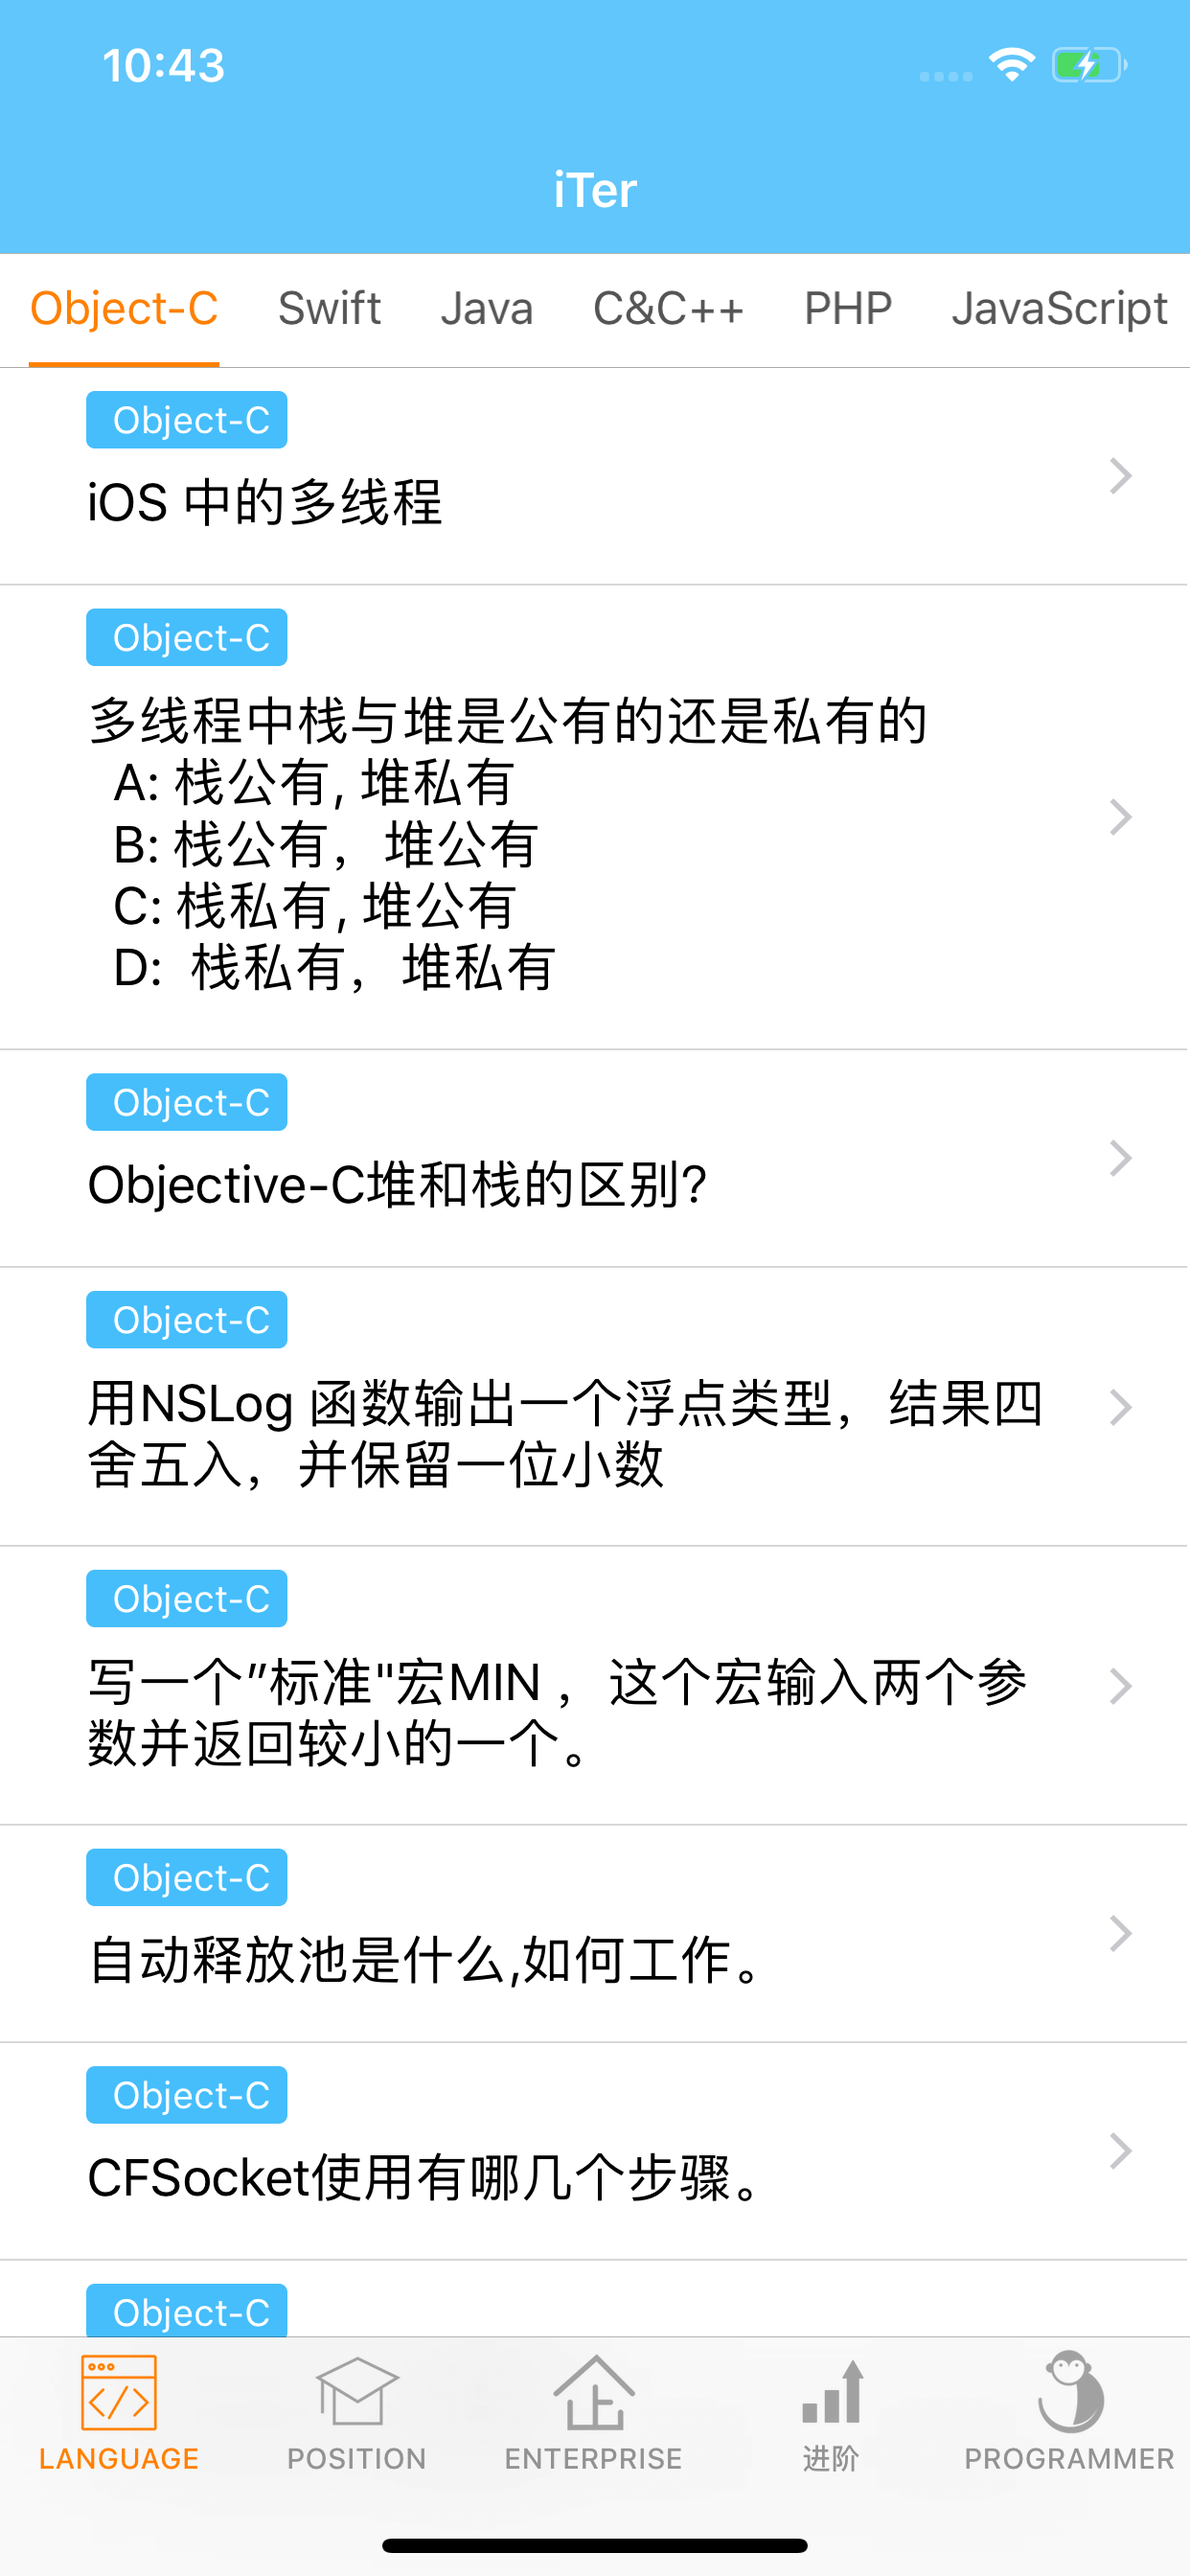
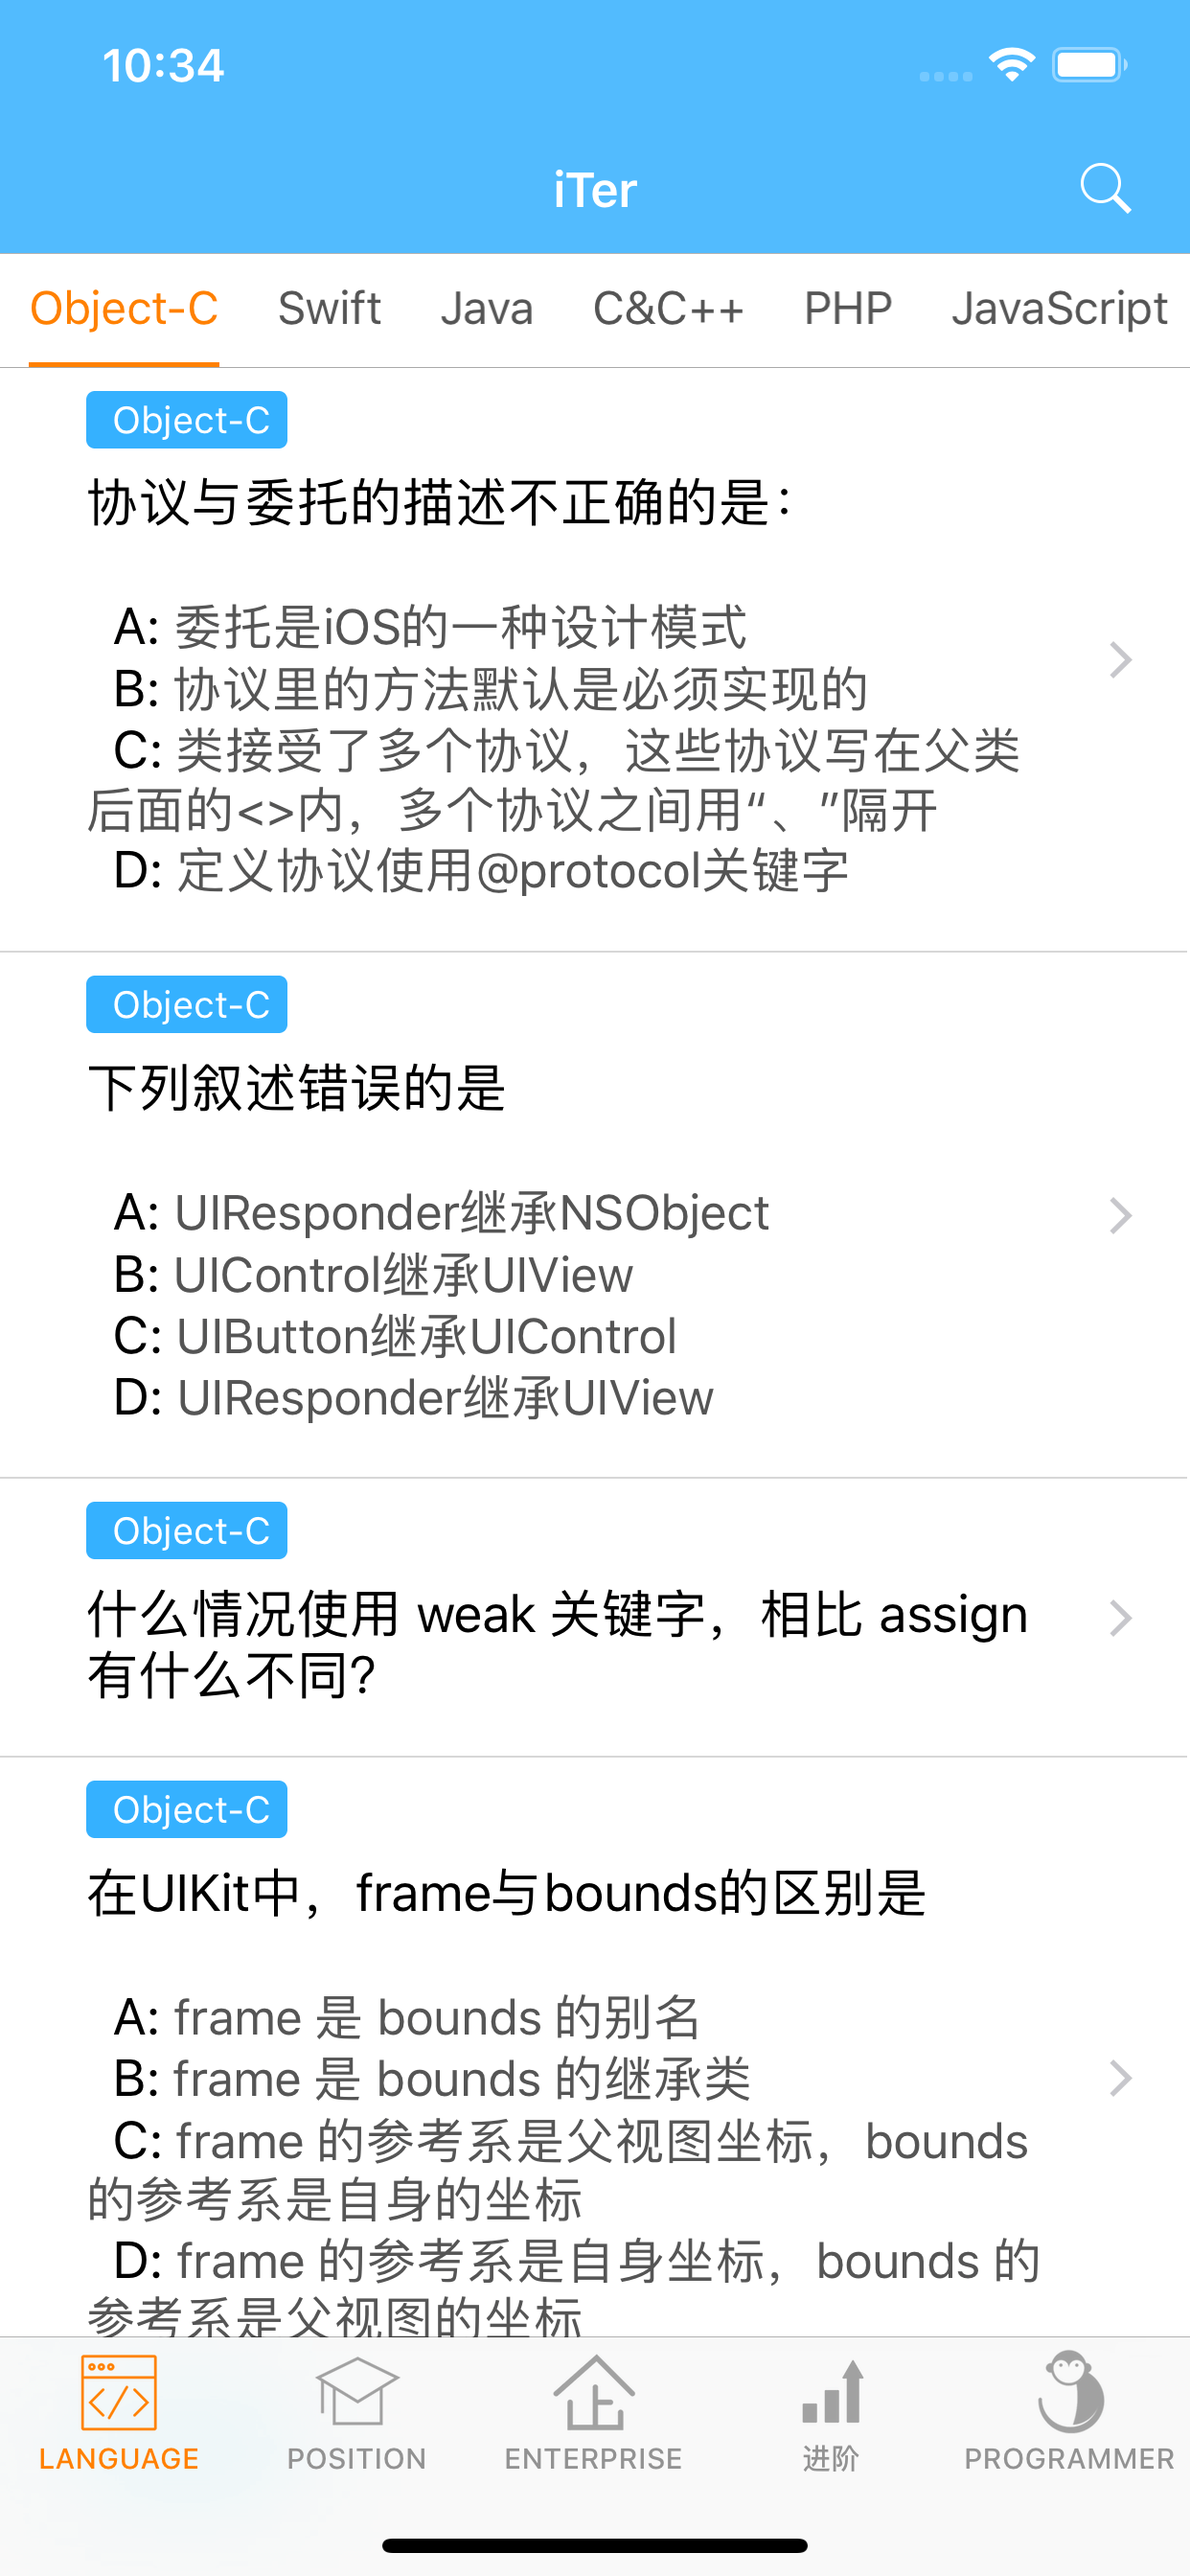
- 每次启动题目随时显示 - 修复应用可以错误的UI - 优化应用的体验和细节

diff --git a/iTalker/iTalker/Class/ViewController/ITAdvancelDetailViewController.swift b/iTalker/iTalker/Class/ViewController/ITAdvancelDetailViewController.swift
@@ -15,6 +15,7 @@ enum ITAdvancelType {
     case Awesome
     case PracticeProject
     case Gitbook
+    case Copyright
 }
 
 class ITAdvancelDetailViewController: UIViewController {
@@ -36,7 +37,7 @@ class ITAdvancelDetailViewController: UIViewController {
     
     // MARK:- 懒加载
     lazy var tableView: UITableView = {
-        var tableView = UITableView.init(frame: CGRect.zero, style: .grouped)
+        var tableView = UITableView.init(frame: CGRect.zero, style: .plain)
         tableView.contentInset = UIEdgeInsets.init(top: 0, left: 0, bottom: 20, right: 0)
         tableView.estimatedRowHeight = 55
         tableView.translatesAutoresizingMaskIntoConstraints = false
@@ -126,6 +127,8 @@ extension ITAdvancelDetailViewController
             break
         case .Awesome:
             dataArray = getJsonData(title: "Awesome")
+        case .Copyright:
+            dataArray = getJsonData(title: "Copyright")
         }
     }
 
@@ -175,7 +178,7 @@ extension ITAdvancelDetailViewController : UITableViewDelegate, UITableViewDataS
     }
 
     func tableView(_ tableView: UITableView, heightForHeaderInSection section: Int) -> CGFloat {
-        return 60
+        return DeviceType.IS_IPAD ? 65 : 55
     }
     
     func tableView(_ tableView: UITableView, viewForHeaderInSection section: Int) -> UIView? {
@@ -192,9 +195,10 @@ extension ITAdvancelDetailViewController : UITableViewDelegate, UITableViewDataS
         var cell = tableView.dequeueReusableCell(withIdentifier: "ITAdvanceLearningViewCell")
         if (cell  == nil) {
             cell = UITableViewCell.init(style: .value1, reuseIdentifier: "ITAdvanceLearningViewCell")
-            cell!.accessoryType = .disclosureIndicator
-            cell!.selectedBackgroundView = UIView.init(frame: cell!.frame)
-            cell!.selectedBackgroundView?.backgroundColor = kColorAppOrange.withAlphaComponent(0.7)
+            cell?.accessoryType = .disclosureIndicator
+            cell?.backgroundColor = .white
+            cell?.selectedBackgroundView = UIView.init(frame: cell!.frame)
+            cell?.selectedBackgroundView?.backgroundColor = kColorAppOrange.withAlphaComponent(0.7)
             cell?.textLabel?.font = UIFont.systemFont(ofSize: DeviceType.IS_IPAD ? 20:16.5)
             cell?.detailTextLabel?.font = UIFont.systemFont(ofSize: DeviceType.IS_IPAD ? 16:12.5)
             cell?.detailTextLabel?.sizeToFit()

diff --git a/iTalker/iTalker/Class/ViewController/ITProgrammerVC.swift b/iTalker/iTalker/Class/ViewController/ITProgrammerVC.swift
@@ -39,7 +39,7 @@ class ITProgrammerVC: UIViewController {
     }()
     
     fileprivate var titles = ["0": "应用内评分:欢迎给\(kiTalker)打评分！,AppStore评价:欢迎给\(kiTalker)写评论!,分享给朋友:与身边的好友一起分享！",
-        "1":"意见反馈:欢迎到AppStore提需求或bug问题,邮件联系:如有问题欢迎来信,隐私条款:用户使用服务协议,开源地址:现已公开代码，欢迎关注,更多关注:了解更多，欢迎访问作者博客,关于应用:\(kiTalker)"] as [String : String]
+        "1":"意见反馈:欢迎到AppStore提需求或bug问题,邮件联系:如有问题欢迎来信,隐私条款:用户使用服务协议,开源地址:现已公开代码，欢迎关注,感谢开源:参考和引用的项目,更多关注:了解更多，欢迎访问作者博客,关于应用:\(kiTalker)"] as [String : String]
 
 }
 
@@ -159,9 +159,16 @@ extension ITProgrammerVC : UITableViewDelegate, UITableViewDataSource
                 IAppleServiceUtil.openWebView(url: kGithubURL, tintColor: kColorAppOrange, vc: self)
             }
             if row == 4 {
-                IAppleServiceUtil.openWebView(url: kiHTCboyURL, tintColor: kColorAppOrange, vc: self)
+                let vc = ITAdvancelDetailViewController()
+                vc.title = "感谢开源"
+                vc.advancelType = .Copyright
+                vc.hidesBottomBarWhenPushed = true
+                self.navigationController?.pushViewController(vc, animated: true)
             }
             if row == 5 {
+                IAppleServiceUtil.openWebView(url: kiHTCboyURL, tintColor: kColorAppOrange, vc: self)
+            }
+            if row == 6 {
                 let vc = ITAboutAppVC()
                 vc.hidesBottomBarWhenPushed = true
                 self.navigationController?.pushViewController(vc, animated: true)

diff --git a/iTalker/iTalker/Class/ViewController/IHTCSearchViewController.swift b/iTalker/iTalker/Class/ViewController/IHTCSearchViewController.swift
@@ -275,8 +275,8 @@ extension IHTCSearchViewController : UITableViewDelegate, UITableViewDataSource 
         cell.tagLbl.text =  " " + questionModle.title + "   "
         
         if questionModle.hasOptionQuestion {
-            let text = questionModle.question + "\n\n  A: " + questionModle.optionA + "\n  B: " + questionModle.optionB + "\n  C: " + questionModle.optionC + "\n  D: " + questionModle.optionD
-            cell.questionLbl.attributedText = getTextAttributedText(text: text, fontSize: 17, color: .darkGray, option: .backwards,styleText: [questionModle.optionA, questionModle.optionB, questionModle.optionC, questionModle.optionD])
+            let text = questionModle.question + "\n\n  A: " + questionModle.optionA + " \n  B: " + questionModle.optionB + " \n  C: " + questionModle.optionC + " \n  D: " + questionModle.optionD + " "
+            cell.questionLbl.attributedText = getTextAttributedText(text: text, fontSize: 17, color: .darkGray, option: .backwards,styleText: [" \(questionModle.optionA) ", " \(questionModle.optionB) ", " \(questionModle.optionC) ", " \(questionModle.optionD) "])
         }
         else {
             cell.questionLbl.text = questionModle.question
@@ -326,7 +326,7 @@ extension IHTCSearchViewController: UIViewControllerPreviewingDelegate {
         
         let question = self.listModel.result[indexPath.row]
         let questionVC = IHTCSearchDetailVC()
-        questionVC.title = self.title
+        questionVC.title = self.searchBar.text
         questionVC.questionModle = question
         questionVC.hidesBottomBarWhenPushed = true
         

diff --git a/iTalker/iTalker/Class/ViewController/ITQuestionListViewController.swift b/iTalker/iTalker/Class/ViewController/ITQuestionListViewController.swift
@@ -124,6 +124,7 @@ extension ITQuestionListViewController {
                     // json is a dictionary
                     
                     let model = ITModel.init(dictionary: object, language: title)
+                    model.result.shuffle()
                     return model
                     
                 } else {
@@ -168,8 +169,8 @@ extension ITQuestionListViewController : UITableViewDelegate, UITableViewDataSou
         cell.tagLbl.text =  " " + self.title! + "   "
         
         if questionModle.hasOptionQuestion {
-            let text = questionModle.question + "\n\n  A: " + questionModle.optionA + "\n  B: " + questionModle.optionB + "\n  C: " + questionModle.optionC + "\n  D: " + questionModle.optionD
-            cell.questionLbl.attributedText = getTextAttributedText(text: text, fontSize: 17, color: .darkGray, option: .backwards,styleText: [questionModle.optionA, questionModle.optionB, questionModle.optionC, questionModle.optionD])
+            let text = questionModle.question + "\n\n  A: " + questionModle.optionA + " \n  B: " + questionModle.optionB + " \n  C: " + questionModle.optionC + " \n  D: " + questionModle.optionD + " "
+            cell.questionLbl.attributedText = getTextAttributedText(text: text, fontSize: 17, color: .darkGray, option: .backwards,styleText: [" \(questionModle.optionA) ", " \(questionModle.optionB) ", " \(questionModle.optionC) ", " \(questionModle.optionD) "])
         }
         else {
             cell.questionLbl.text = questionModle.question

diff --git a/iTalker/iTalker/Class/ViewController/IHTCSearchDetailVC.swift b/iTalker/iTalker/Class/ViewController/IHTCSearchDetailVC.swift
@@ -119,8 +119,8 @@ extension IHTCSearchDetailVC : UITableViewDelegate, UITableViewDataSource {
         
         cell.tagLbl.text =  " " + questionModle!.title + "   "
         if questionModle!.hasOptionQuestion {
-            let text = questionModle!.question + "\n\n  A: " + questionModle!.optionA + "\n  B: " + questionModle!.optionB + "\n  C: " + questionModle!.optionC + "\n  D: " + questionModle!.optionD
-            cell.questionLbl.attributedText = getTextAttributedText(text: text, fontSize: 17, color: .darkGray, option: .backwards, styleText: [questionModle!.optionA, questionModle!.optionB, questionModle!.optionC, questionModle!.optionD])
+            let text = questionModle!.question + "\n\n  A: " + questionModle!.optionA + " \n  B: " + questionModle!.optionB + " \n  C: " + questionModle!.optionC + " \n  D: " + questionModle!.optionD + " "
+            cell.questionLbl.attributedText = getTextAttributedText(text: text, fontSize: 17, color: .darkGray, option: .backwards,styleText: [" \(questionModle!.optionA) ", " \(questionModle!.optionB) ", " \(questionModle!.optionC) ", " \(questionModle!.optionD) "])
         }
         else {
             cell.questionLbl.text = questionModle!.question

diff --git a/iTalker/iTalker/Class/ViewController/ITQuestionDetailViewController.swift b/iTalker/iTalker/Class/ViewController/ITQuestionDetailViewController.swift
@@ -116,8 +116,8 @@ extension ITQuestionDetailViewController : UITableViewDelegate, UITableViewDataS
         
         cell.tagLbl.text =  " " + self.title! + "   "
         if questionModle!.hasOptionQuestion {
-            let text = questionModle!.question + "\n\n  A: " + questionModle!.optionA + "\n  B: " + questionModle!.optionB + "\n  C: " + questionModle!.optionC + "\n  D: " + questionModle!.optionD
-            cell.questionLbl.attributedText = getTextAttributedText(text: text, fontSize: 17, color: .darkGray, option: .backwards, styleText: [questionModle!.optionA, questionModle!.optionB, questionModle!.optionC, questionModle!.optionD])
+            let text = questionModle!.question + "\n\n  A: " + questionModle!.optionA + " \n  B: " + questionModle!.optionB + " \n  C: " + questionModle!.optionC + " \n  D: " + questionModle!.optionD + " "
+            cell.questionLbl.attributedText = getTextAttributedText(text: text, fontSize: 17, color: .darkGray, option: .backwards,styleText: [" \(questionModle!.optionA) ", " \(questionModle!.optionB) ", " \(questionModle!.optionC) ", " \(questionModle!.optionD) "])
         }
         else {
             cell.questionLbl.text = questionModle!.question

diff --git a/iTalker/iTalker/Class/View/TableHeaderView.swift b/iTalker/iTalker/Class/View/TableHeaderView.swift
@@ -35,6 +35,10 @@ class TableHeaderView: UIView {
         let hview = TableHeaderView.init(frame: CGRect.init(x: 0, y: 0, width: UIScreen.main.bounds.width, height: height))
         hview.titleLbl.text = title
         hview.subtitleLbl.text = subtitle
+        if UIDevice.current.userInterfaceIdiom == .pad {
+            hview.titleLbl.font = UIFont.systemFont(ofSize: 17)
+            hview.subtitleLbl.font = UIFont.systemFont(ofSize: 14)
+        }
         return hview
     }
 

diff --git a/iTalker/iTalker/Class/Common/CommonDefine.swift b/iTalker/iTalker/Class/Common/CommonDefine.swift
@@ -17,7 +17,7 @@ let kReviewAction = "&action=write-review"
 let kGithubURL = "https://github.com/iHTCboy/iTalker"
 let kLicenseURL = "https://raw.githubusercontent.com/iHTCboy/iTalker/master/LICENSE"
 let kiHTCboyURL = "https://ihtcboy.com"
-let kEmail = "ihetiancong@qq.com"
+let kEmail = "ihetiancong@gmail.com"
 let kShareTitle = "长按识别二维码下载"
 let kShareSubTitle = "10000+ IT企业题库，完名企梦！"
 

diff --git a/README.md b/README.md
@@ -21,3 +21,6 @@ iTer - IT learning, job interview essential, IT interview basic exam questions g
 ![](screenshot/04.png)
 ![](screenshot/05.png)
 ![](screenshot/06.png)
+![](screenshot/07.png)
+![](screenshot/08.png)
+![](screenshot/09.png)
